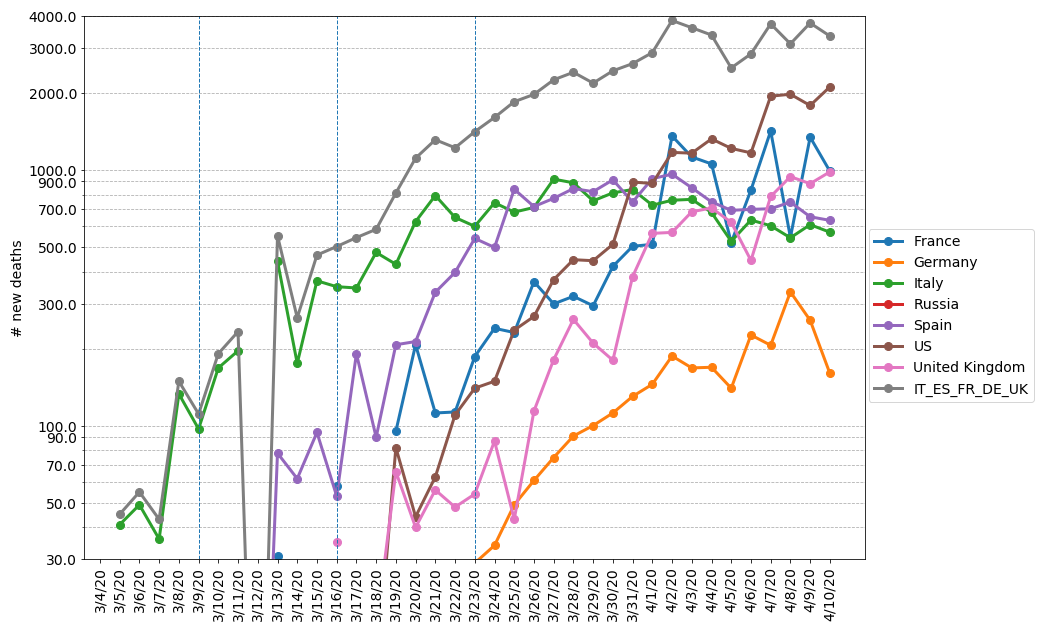
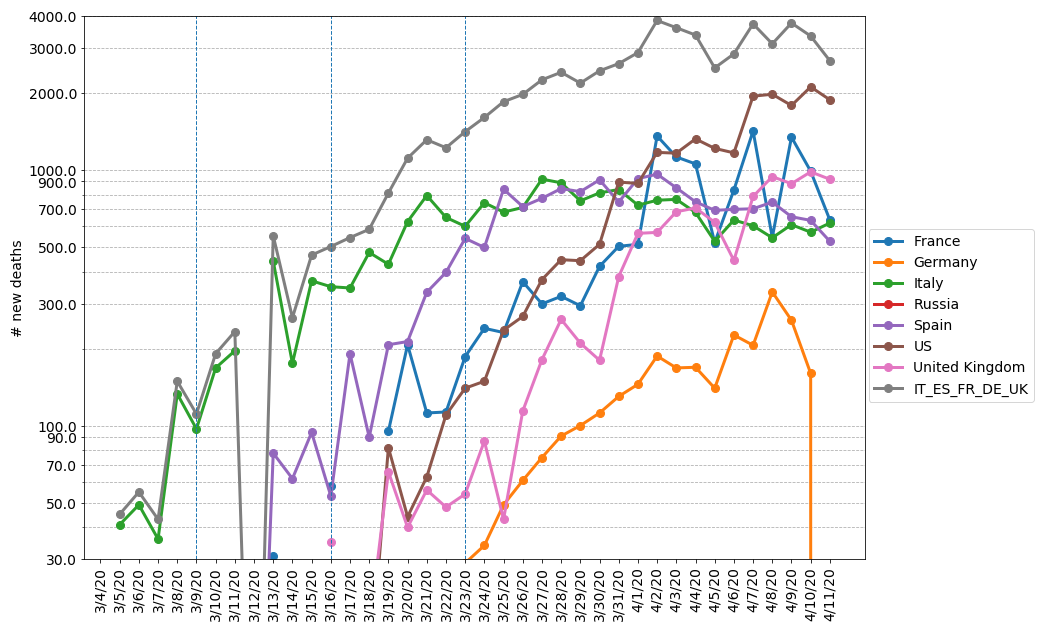
Build site at 2020-04-12 09:04:17 UTC

Changed region(s): [[0.1226, 0.1204, 0.7969, 0.9937], [0.3985, 0.0301, 0.7969, 0.2409]]

diff --git a/_site/covid-visualization/index.html b/_site/covid-visualization/index.html
@@ -104,7 +104,15 @@
 <h3 id="total-number-of-cases-by-date-logarithmic-y-axis">Total number of cases by date (logarithmic y-axis)</h3>
 
 <p>This is showing the cumulative number of confirmed COVID19 cases in the major European countries, the US and some of the major Asian countries. The numbers are plotted by date.
-The 5 biggest European countries by population (Germany, UK, France, Italy and Spain) have a combined population almost exactly equal to the US, so it is useful to plot them also as a group, this is shown by ‘<em>IT_ES_FR_DE_UK’</em>.</p>
+The 5 biggest European countries by population (Germany, UK, France, Italy and Spain) have a combined population almost exactly equal to the US, so it is useful to plot them also as a group, this is shown by ‘<em>IT_ES_FR_DE_UK’</em>.
+The insets show European countries plus the US and Asian countries, respectively.
+The dashed blue lines on the left inset show the dates:</p>
+<ul>
+  <li>20/February: exponential increase of cases starts in Italy</li>
+  <li>26/February: exponential increase of cases starts in France</li>
+  <li>09/March: national lockdown in Italy</li>
+  <li>09/March: national lockdown in France</li>
+</ul>
 
 <p><img src="/images/covid/west_vs_asia_w_china.png" alt="_config.yml" /></p>
 
@@ -126,7 +134,7 @@ The 5 biggest European countries by population (Germany, UK, France, Italy and S
 
 <p><img src="/images/covid/newcases_west_vs_asia_w_china.png" alt="_config.yml" /></p>
 
-<h3 id="number-of-new-cases-in-europe-us-and-asia-plotted-by-date">Number of new cases in Europe, US and Asia, plotted by date</h3>
+<h3 id="number-of-new-cases-in-europe-and-the-us">Number of new cases in Europe and the US</h3>
 
 <p>Number of new confirmed cases by date for Western countries and Russia only. The dashed blue lines show the imposition of the lockdowns in Italy (02/March, 09/March) and France (16/March).</p>
 
@@ -432,15 +440,19 @@ China’s wildlife farming has evolved into a gigantic business interest. In 201
 
 <h4 id="reuters-detailed-account-of-uk-gov-response-timeline"><a href="https://www.reuters.com/article/us-health-coronavirus-britain-path-speci-idUSKBN21P1VF">Reuters detailed account of UK gov response timeline</a></h4>
 
-<h4 id="politicoeu-how-europe-failed-the-coronavirus-test"><a href="https://www.politico.eu/article/coronavirus-europe-failed-the-test/">Politico.eu: How Europe failed the coronavirus test</a></h4>
+<p>####<a href="https://sbhager.com/covid-19-and-the-coming-corporate-debt-catastrophe/">COVID-19 and the Coming Corporate Debt Catastrophe (13, March)</a></p>
 
+<h4 id="politicoeu-how-europe-failed-the-coronavirus-test"><a href="https://www.politico.eu/article/coronavirus-europe-failed-the-test/">Politico.eu: How Europe failed the coronavirus test</a></h4>
 <!---![_config.yml](/images/covid/reaction_eur_states_14978916_1586353616114.png)--->
+
 <p>This is a <a href="https://images.jifo.co/14978916_1586353616114.png">useful table</a> on how many days it took European governments to apply restrictions after the 3rd death from COVID19.
 Greece, Eastern European states did it before 3rd death, Spain 9-10 days after, UK, France 2 weeks after.</p>
 
 <!---!
 <div class="infogram-embed" data-id="0991a8d7-ada2-4fc2-a351-f446081b8d95" data-type="interactive" data-title="3 — Comparing when coronavirus measures were implemented"></div><script>!function(e,i,n,s){var t="InfogramEmbeds",d=e.getElementsByTagName("script")[0];if(window[t]&&window[t].initialized)window[t].process&&window[t].process();else if(!e.getElementById(n)){var o=e.createElement("script");o.async=1,o.id=n,o.src="https://e.infogram.com/js/dist/embed-loader-min.js",d.parentNode.insertBefore(o,d)}}(document,0,"infogram-async");</script>
 --->
+
+<p><a href="https://climateandcapitalism.com/2020/03/11/capitalist-agriculture-and-covid-19-a-deadly-combination/">Capitalist agriculture and Covid-19: A deadly combination (11 March)</a></p>
 
   </div>
 

diff --git a/_site/blog/tags/index.html b/_site/blog/tags/index.html
@@ -611,6 +611,13 @@
 				<code>[09 Apr 2020]</code>
 			</li>
       
+      <li>
+				<a class="post-title" href="/illusion-globalisation/">
+        1990-2020, the false dawn of globalization?
+				</a>
+				<code>[29 Feb 2020]</code>
+			</li>
+      
     </ul>
     
     <h2 id="covid19">covid19</h2>
@@ -621,6 +628,13 @@
         Tracking the pandemic
 				</a>
 				<code>[09 Apr 2020]</code>
+			</li>
+      
+      <li>
+				<a class="post-title" href="/illusion-globalisation/">
+        1990-2020, the false dawn of globalization?
+				</a>
+				<code>[29 Feb 2020]</code>
 			</li>
       
     </ul>

diff --git a/_site/illusion-globalisation/index.html b/_site/illusion-globalisation/index.html
@@ -222,6 +222,12 @@ Within a best case scenario of moderate warming, its effects could be mitigated 
     
     <a href="/tag/ecology"><code class="highligher-rouge"><nobr>ecology</nobr></code>&nbsp;</a>
   
+    
+    <a href="/tag/epidemics"><code class="highligher-rouge"><nobr>epidemics</nobr></code>&nbsp;</a>
+  
+    
+    <a href="/tag/covid19"><code class="highligher-rouge"><nobr>covid19</nobr></code>&nbsp;</a>
+  
 ]</span>
 
 

diff --git a/_site/tag/covid19/index.html b/_site/tag/covid19/index.html
@@ -87,6 +87,10 @@
     
   </li>
 
+  <li><a href="/illusion-globalisation/">1990-2020, the false dawn of globalization?</a> (29 Feb 2020)<br>
+    
+  </li>
+
 </ul>
 
 </div>

diff --git a/_site/tag/epidemics/index.html b/_site/tag/epidemics/index.html
@@ -87,6 +87,10 @@
     
   </li>
 
+  <li><a href="/illusion-globalisation/">1990-2020, the false dawn of globalization?</a> (29 Feb 2020)<br>
+    
+  </li>
+
 </ul>
 
 </div>

diff --git a/_posts/ecopol/2020-04-09-covid-visualization.md b/_posts/ecopol/2020-04-09-covid-visualization.md
@@ -25,6 +25,12 @@ The data source for all these plots is the central database by [Johns Hopkins Un
 
 This is showing the cumulative number of confirmed COVID19 cases in the major European countries, the US and some of the major Asian countries. The numbers are plotted by date.
 The 5 biggest European countries by population (Germany, UK, France, Italy and Spain) have a combined population almost exactly equal to the US, so it is useful to plot them also as a group, this is shown by '*IT_ES_FR_DE_UK'*.
+The insets show European countries plus the US and Asian countries, respectively.
+The dashed blue lines on the left inset show the dates:
+- 20/February: exponential increase of cases starts in Italy
+- 26/February: exponential increase of cases starts in France
+- 09/March: national lockdown in Italy
+- 09/March: national lockdown in France
 
 ![_config.yml]({{ site.baseurl }}/images/covid/west_vs_asia_w_china.png)
 
@@ -46,7 +52,7 @@ Plotting the number of new cases by date, for the same Western (+Russia) and Asi
 
 ![_config.yml]({{ site.baseurl }}/images/covid/newcases_west_vs_asia_w_china.png)
 
-### Number of new cases in Europe, US and Asia, plotted by date
+### Number of new cases in Europe and the US
 
 Number of new confirmed cases by date for Western countries and Russia only. The dashed blue lines show the imposition of the lockdowns in Italy (02/March, 09/March) and France (16/March).
 
@@ -342,12 +348,17 @@ China’s wildlife farming has evolved into a gigantic business interest. In 201
 
 #### [Reuters detailed account of UK gov response timeline](https://www.reuters.com/article/us-health-coronavirus-britain-path-speci-idUSKBN21P1VF)
 
-#### [Politico.eu: How Europe failed the coronavirus test](https://www.politico.eu/article/coronavirus-europe-failed-the-test/)
+####[COVID-19 and the Coming Corporate Debt Catastrophe (13, March)](https://sbhager.com/covid-19-and-the-coming-corporate-debt-catastrophe/)
 
+#### [Politico.eu: How Europe failed the coronavirus test](https://www.politico.eu/article/coronavirus-europe-failed-the-test/)
 <!---![_config.yml]({{ site.baseurl }}/images/covid/reaction_eur_states_14978916_1586353616114.png)--->
+
 This is a [useful table](https://images.jifo.co/14978916_1586353616114.png) on how many days it took European governments to apply restrictions after the 3rd death from COVID19.
 Greece, Eastern European states did it before 3rd death, Spain 9-10 days after, UK, France 2 weeks after.
 
 <!---!
 <div class="infogram-embed" data-id="0991a8d7-ada2-4fc2-a351-f446081b8d95" data-type="interactive" data-title="3 — Comparing when coronavirus measures were implemented"></div><script>!function(e,i,n,s){var t="InfogramEmbeds",d=e.getElementsByTagName("script")[0];if(window[t]&&window[t].initialized)window[t].process&&window[t].process();else if(!e.getElementById(n)){var o=e.createElement("script");o.async=1,o.id=n,o.src="https://e.infogram.com/js/dist/embed-loader-min.js",d.parentNode.insertBefore(o,d)}}(document,0,"infogram-async");</script>
 --->
+
+
+[Capitalist agriculture and Covid-19: A deadly combination (11 March)](https://climateandcapitalism.com/2020/03/11/capitalist-agriculture-and-covid-19-a-deadly-combination/)

diff --git a/_posts/ecopol/2020-02-29-illusion-globalisation.md b/_posts/ecopol/2020-02-29-illusion-globalisation.md
@@ -1,7 +1,7 @@
 ---
 layout: post
 title: 1990-2020, the false dawn of globalization?
-tags: political-economy globalization climate-change complex-systems ecology
+tags: political-economy globalization climate-change complex-systems ecology epidemics covid19
 excerpt: Climate change, epidemics and fascism could end globalization
 secondary: ecopol
 mathjax: true
